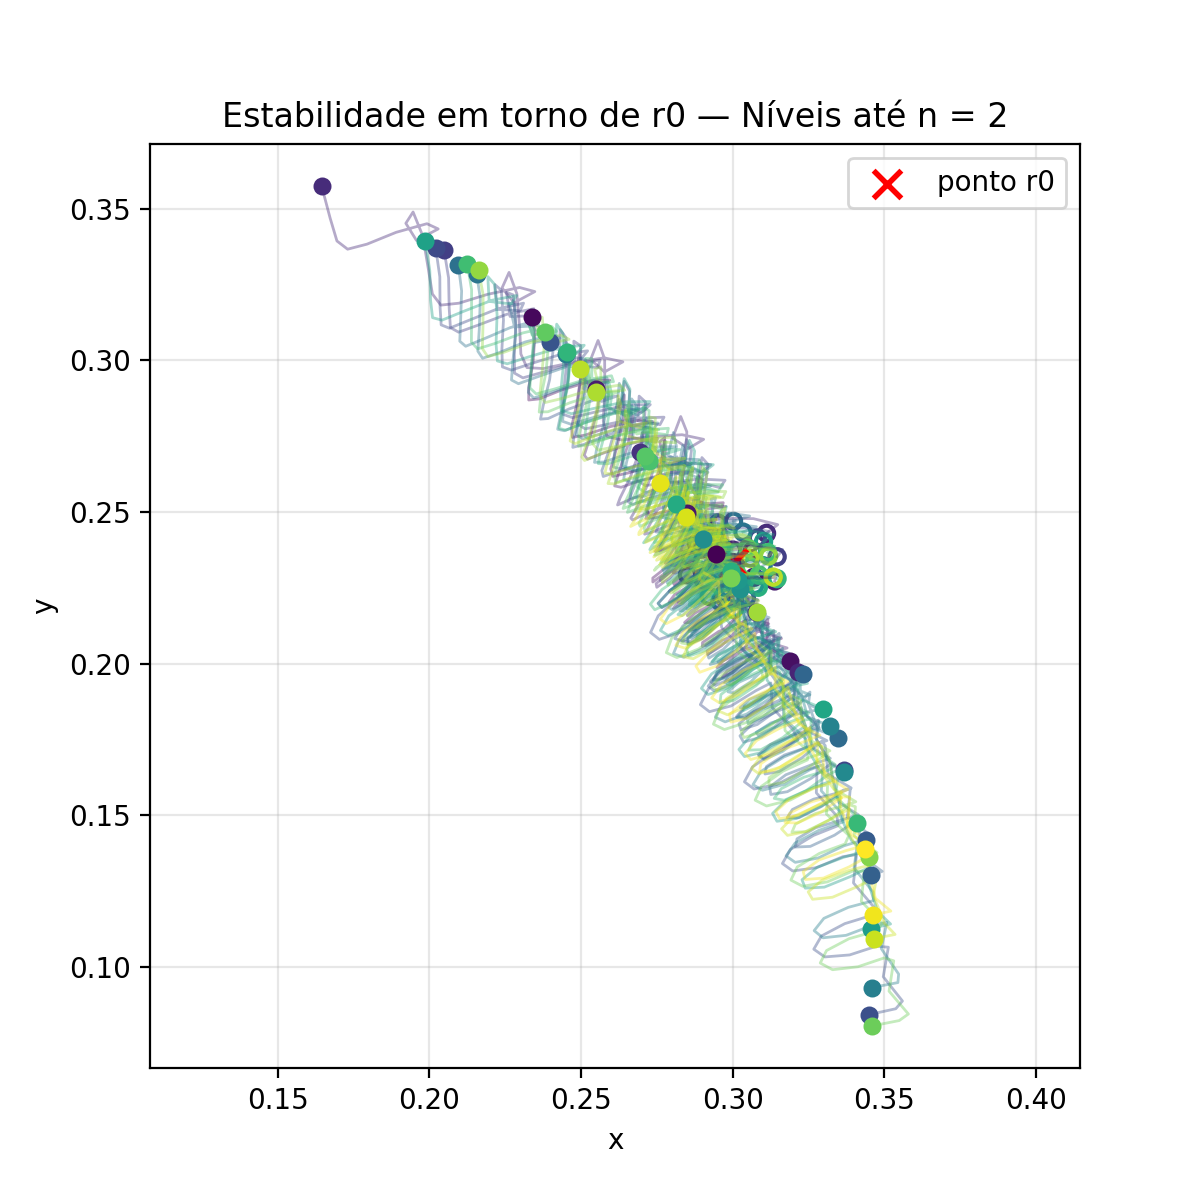
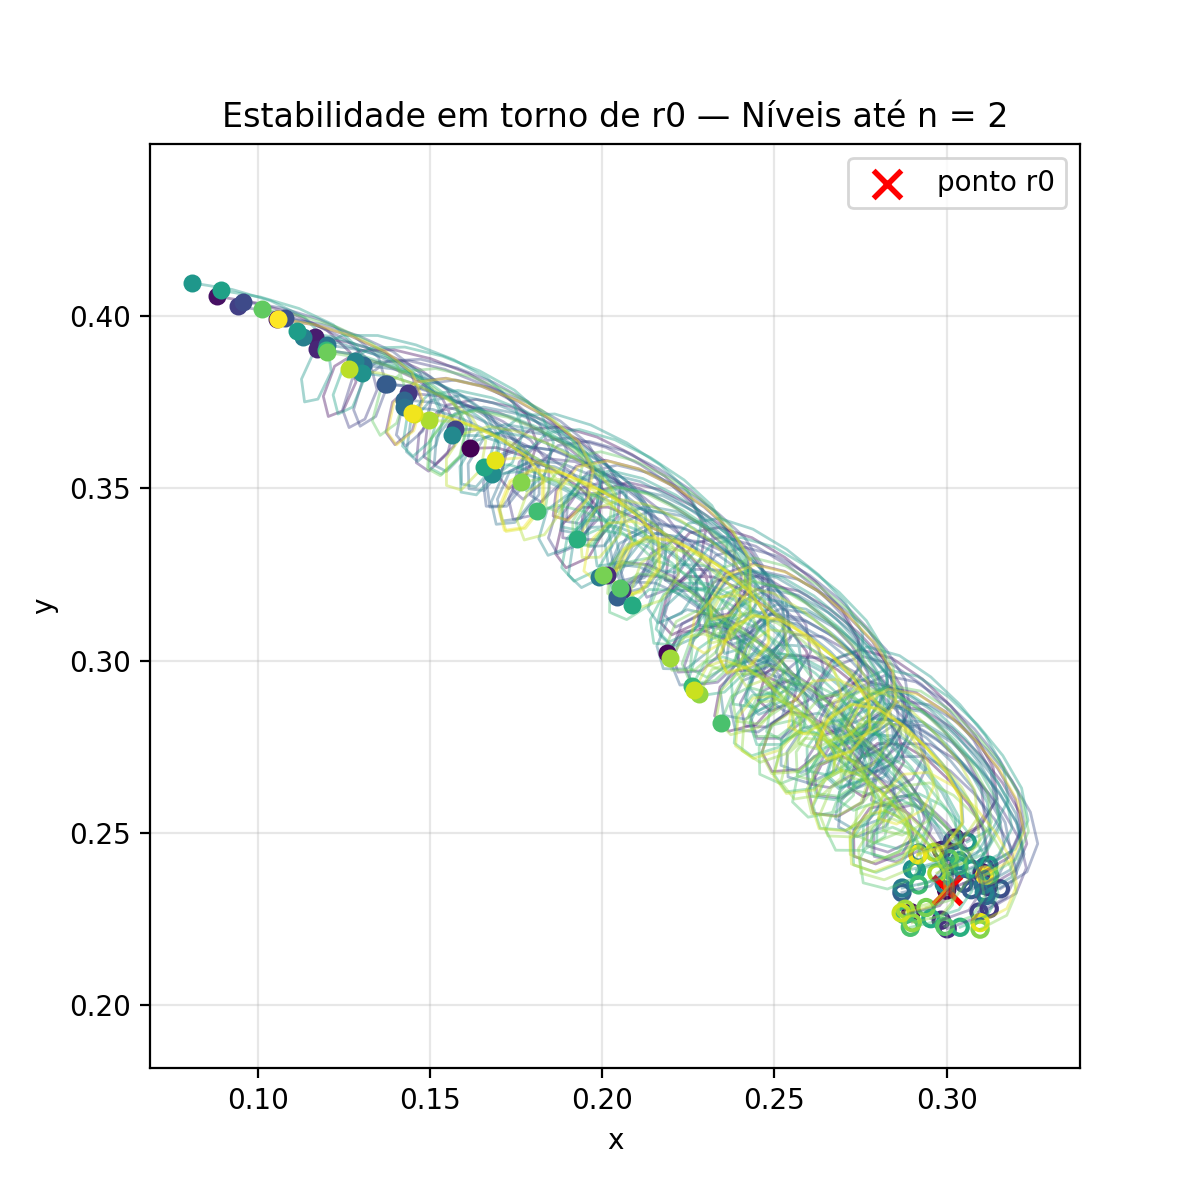
s

diff --git a/integradores.py b/integradores.py
@@ -194,9 +194,23 @@ def testar_estabilidade_temporal(
       - plota as trajetórias
       - salva a figura em disco
     """
+    
+    
 
     os.makedirs(pasta_saida, exist_ok=True)
     os.makedirs(pasta_saida_info, exist_ok=True)
+    nome_do_txt_info = os.path.join(pasta_saida_info, "Informações.txt")
+    with open(nome_do_txt_info, "a") as f:
+        f.write('\n')
+        f.write("Carateristicas \n")
+        f.write('\n')
+        f.write(f"R_1 = {R_1},       T_1 = {T_1},     lambda = {lamb} \n")
+        f.write(f"alpha de corte = {alpha_padrao}, Fator c = {c_padrao}\n")
+        f.write(f"r_0 = {r0}, Número de partículas: {N_particulas}\n")
+        f.write("Estatísticas: \n")
+        f.write('\n')
+        
+
     nivel_info  = []
     for n in range(nivel_min, nivel_max + 1):
         t0 = time.perf_counter()
@@ -221,15 +235,35 @@ def testar_estabilidade_temporal(
         var = np.var(rs_final, axis=0, ddof =1 )
         matriz_covarianca = np.cov(rs_final.T, ddof=1)
         sigma2_total = np.mean(np.sum((rs_final - mean)**2, axis=1))
-        dic_info = {"Media": mean, "Varianca": var, "Matriz de covariança": matriz_covarianca, "sigma total": sigma2_total}
+        dic_info = {"Media": mean, "Varianca": var, "Matriz de covariança": matriz_covarianca, "sigma total": sigma2_total, "L": L}
         nivel_info.append(dic_info)
         # rs tem shape (Nt, N, 2)
         Nt = rs.shape[0]
         t1 = time.perf_counter()
         plt.figure(figsize=(6, 6))
 
-
+        plt.hist2d
         cores = plt.cm.viridis(np.linspace(0, 1, N_particulas))
+        
+        with open(nome_do_txt_info, 'a') as f:
+            
+            
+            dic = dic_info
+            f.write(f"Nível: {n}, Tamanho da núvem incial = {dic['L']}\n")
+            f.write(f"Média: {dic['Media']}, Variança: {dic['Varianca']}\n")
+            cov = dic["Matriz de covariança"]
+            f.write(f"Sigma^2 raio  = {dic['sigma total']}")
+            f.write('\n')
+            f.write("Matriz de covariância:\n")
+            f.write(
+                f"[[{cov[0,0]:.4e}, {cov[0,1]:.4e}],\n"
+                f" [{cov[1,0]:.4e}, {cov[1,1]:.4e}]]\n"
+            )
+            
+            f.write('\n')
+            f.write('=-='*10)
+            f.write('\n')
+
 
         for i in range(N_particulas):
             # Trajetória
@@ -287,30 +321,39 @@ def testar_estabilidade_temporal(
         plt.close()
         print(f"Tempo demorado: {t1 - t0}")
         print(f"Imagem salva em: {nome_arquivo}")
-    nome_do_txt_info = os.path.join(pasta_saida_info, "Informações.txt")
-    with open(nome_do_txt_info, "a") as f:
-        f.write('\n')
-        f.write("Carateristicas \n")
-        f.write('\n')
-        f.write(f"R_1 = {R_1}, T_1 = {T_1}, lambda = {lamb} \n")
-        f.write(f"alpha de corte = {alpha_padrao}, Fator c = {c_padrao}\n")
-        f.write(f"r_0 = {r0}, Número de partículas: {N_particulas}\n")
-        f.write("Estatísticas: \n")
-        f.write('\n')
-        for i in range(nivel_min, nivel_max+1):
-            j = i-nivel_min
-            dic =nivel_info[j]
-            f.write(f"Nível: {i}\n")
-            f.write(f"Média: {dic['Media']}, Variança: {dic['Varianca']}\n")
-            cov = dic["Matriz de covariança"]
-            f.write(f"Sigma^2 total  = {dic['sigma total']}")
-            f.write("Matriz de covariância:\n")
-            f.write(
-                f"[[{cov[0,0]:.4e}, {cov[0,1]:.4e}],\n"
-                f" [{cov[1,0]:.4e}, {cov[1,1]:.4e}]]\n"
-            )
-            f.write('\n')
-            
+        plt.figure(figsize=(6,6))
 
+        x = rs_final[:,0]
+        y = rs_final[:,1]
+
+        hist = plt.hist2d(
+            x,
+            y,
+            bins=50,
+            density=True
+        )
+
+        plt.colorbar(label="densidade")
+
+        plt.xlabel("x")
+        plt.ylabel("y")
+        plt.title(f"Histograma 2D — nível {n}")
+
+        plt.axis("equal")
+        plt.legend()
+
+        nome_hist = os.path.join(
+            pasta_saida_info,
+            f"hist2d_nivel_{n}_x{r0[0,0]:.3f}_y{r0[0,1]:.2f}.png"
+        )
+
+        plt.savefig(nome_hist, dpi=200)
+        plt.close()
+
+        print(f"Histograma salvo em: {nome_hist}")
+
+    
+
+    
 
 

diff --git a/campos.py b/campos.py
@@ -302,21 +302,22 @@ if __name__ =="__main__":
     r0 = np.array([[.3, .2333]])
     c= 'estabilidade_temporal'
     d ='estabilidade_com_todos_os_pontos_temporal'
-    it.testar_estabilidade_temporal(
+    '''it.testar_estabilidade_temporal(
         nivel_max=4,
         N_particulas=50,
         r0=r0,
         nivel_min = 1,
         pasta_saida= d,
         funcao=campo_total_correto
-    )
+    )'''
     it.testar_estabilidade_temporal(
-        nivel_max=4,
-        N_particulas=50,
+        nivel_max=10,
+        N_particulas=1000,
         r0=r0,
         nivel_min = 1,
         pasta_saida= c,
-        funcao=campo_total_podado
+        funcao=campo_total_podado,
+        pasta_saida_info= 'estabilidade_podadda_info'
     )
 
 

diff --git a/funcoes_para_centros.py b/funcoes_para_centros.py
@@ -11,7 +11,7 @@ alpha_padrao = np.sqrt(2.5)
 
 
 
-c_padrao = 0.3
+c_padrao = 0.6
 
 
 
